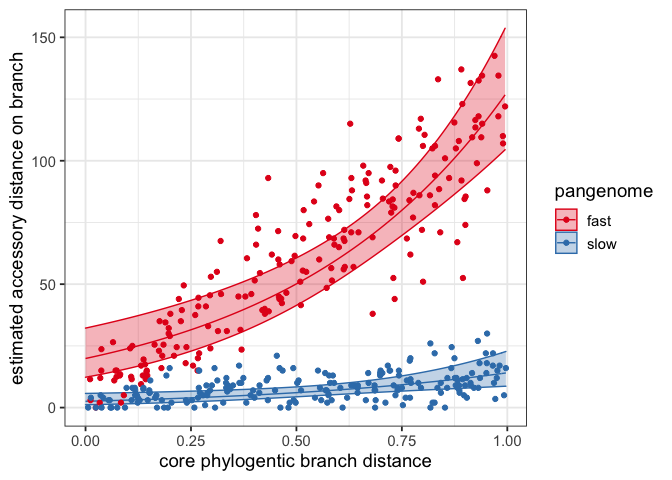
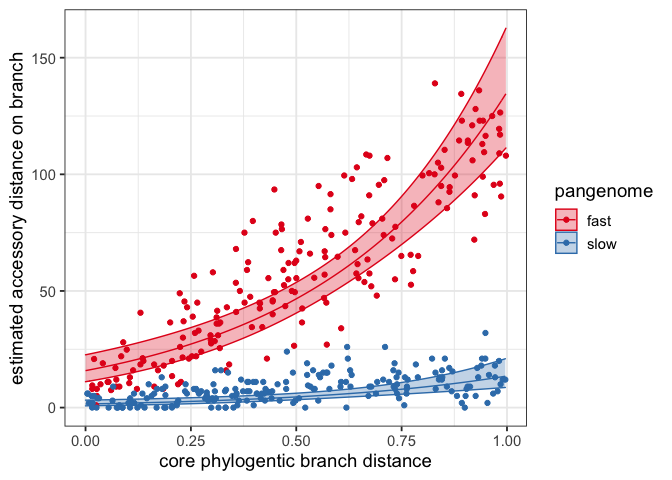
minor changes

diff --git a/README.md b/README.md
@@ -16,28 +16,20 @@ In particular it aims to replace the dubious but popular pangenome
 accumulation curve. The package is currently under development so
 frequent changes are to be expected.
 
--   [panstripe](#panstripe)
-    -   [Installation](#installation)
-    -   [Quick Start](#quick-start)
-    -   [Citation](#citation)
-    -   [Comparing Pangenomes](#comparing-pangenomes)
-    -   [Open vs Closed](#open-vs-closed)
-    -   [Rate vs Size](#rate-vs-size)
-    -   [Plots](#plots)
-        -   [Pangenome fit](#pangenome-fit)
-        -   [Tree with presence/absence](#tree-with-presenceabsence)
-        -   [Inferred ancestral states](#inferred-ancestral-states)
-        -   [tSNE](#tsne)
-        -   [Accumulation curves](#accumulation-curves)
+-   [Installation](#installation)
+-   [Quick Start](#quick-start)
+-   [Citation](#citation)
+-   [Comparing Pangenomes](#comparing-pangenomes)
+-   [Open vs Closed](#open-vs-closed)
+-   [Rate vs Size](#rate-vs-size)
+-   [Plots](#plots)
+    -   [Pangenome fit](#pangenome-fit)
+    -   [Tree with presence/absence](#tree-with-presenceabsence)
+    -   [Inferred ancestral states](#inferred-ancestral-states)
+    -   [tSNE](#tsne)
+    -   [Accumulation curves](#accumulation-curves)
 
 <!-- README.md is generated from README.Rmd. Please edit that file -->
-
-# panstripe
-
-Panstripe improves the post processing of bacterial pangenome analyses.
-In particular it aims to replace the dubious but popular pangenome
-accumulation curve. The package is currently under development so
-frequent changes are to be expected.
 
 ## Installation
 
@@ -103,8 +95,8 @@ result$summary
 #> # A tibble: 2 x 5
 #>   term  estimate std.error statistic  p.value
 #>   <chr>    <dbl>     <dbl>     <dbl>    <dbl>
-#> 1 tip     -0.181    0.0989     -1.83 6.75e- 2
-#> 2 core    -2.76     0.115     -24.1  6.40e-79
+#> 1 tip     -0.273     0.103     -2.64 8.53e- 3
+#> 2 core    -2.62      0.125    -20.9  1.34e-65
 ```
 
 ## Open vs Closed
@@ -127,14 +119,14 @@ sim_closed <- simulate_pan(rate = 0, ngenomes = 100)
 fit_closed <- panstripe(sim_closed$pa, sim_closed$tree)
 
 fit_closed$summary
-#>     term   estimate    std.error     statistic   p.value bootstrap CI (2.5%)
-#> 1    tip 21.8059015 2.528816e+03  8.622969e-03 0.9931289          21.5166987
-#> 2   core -0.1222603 4.112394e+03 -2.972972e-05 0.9999763          -1.4380312
-#> 3 height  0.0129709 6.776101e-02  1.914213e-01 0.8483978          -0.1498757
+#>     term    estimate    std.error     statistic   p.value bootstrap CI (2.5%)
+#> 1    tip 21.66934409 2.528894e+03  0.0085687054 0.9931721          21.2697405
+#> 2   core -0.48829934 4.170981e+03 -0.0001170706 0.9999067          -1.4602502
+#> 3 height  0.00128559 6.700751e-02  0.0191857566 0.9847128          -0.1902157
 #>   bootstrap CI (97.5%)
-#> 1           22.0596155
-#> 2            1.0643556
-#> 3            0.1774196
+#> 1           22.1680678
+#> 2            0.6988920
+#> 3            0.2383255
 ```
 
 ``` r
